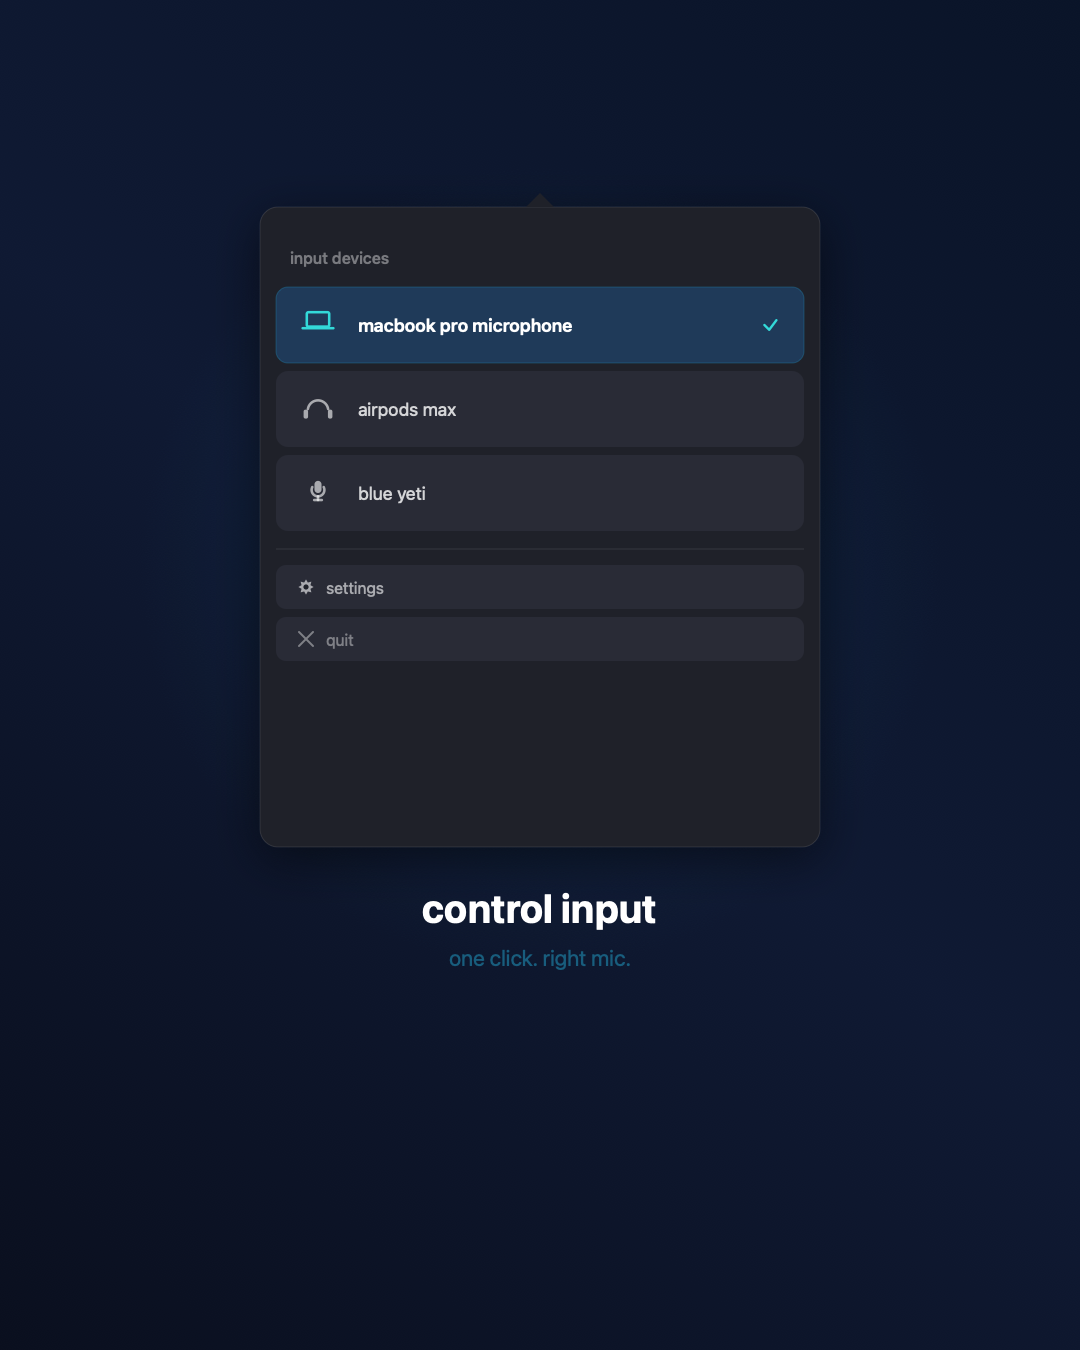
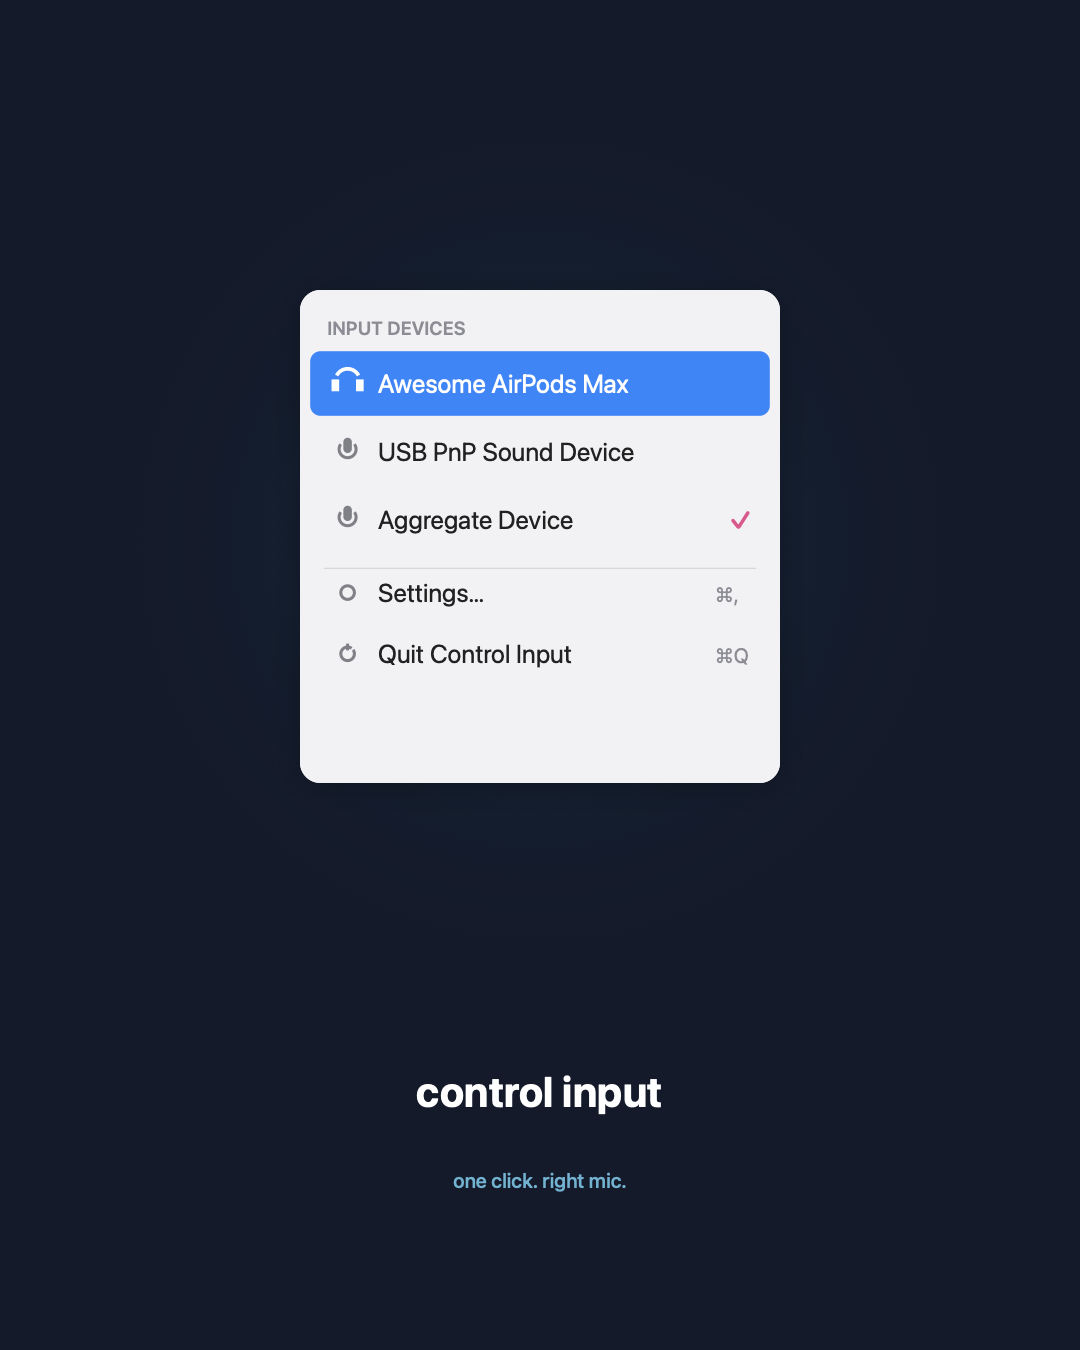
regenerate mockups to match actual app appearance
light frosted panel, blue hover highlight, pink checkmark, proper
device names from real screenshot. replaces the dark-themed mockups
that didn't represent the actual app.

diff --git a/marketing/GenerateAccurateMockups.swift b/marketing/GenerateAccurateMockups.swift
@@ -1,0 +1,324 @@
+#!/usr/bin/env swift
+// Generates marketing mockups that match the actual app appearance.
+// Uses light theme with frosted glass aesthetic matching real macOS vibrancy.
+
+import Cocoa
+import CoreText
+
+// MARK: - Helpers
+
+func createBitmap(width: Int, height: Int) -> (CGContext, NSBitmapImageRep)? {
+    guard let rep = NSBitmapImageRep(
+        bitmapDataPlanes: nil,
+        pixelsWide: width, pixelsHigh: height,
+        bitsPerSample: 8, samplesPerPixel: 4,
+        hasAlpha: true, isPlanar: false,
+        colorSpaceName: .deviceRGB,
+        bytesPerRow: 0, bitsPerPixel: 0
+    ) else { return nil }
+    rep.size = NSSize(width: width, height: height)
+    guard let gfx = NSGraphicsContext(bitmapImageRep: rep) else { return nil }
+    NSGraphicsContext.saveGraphicsState()
+    NSGraphicsContext.current = gfx
+    return (gfx.cgContext, rep)
+}
+
+func save(_ rep: NSBitmapImageRep, to path: String) {
+    NSGraphicsContext.restoreGraphicsState()
+    guard let png = rep.representation(using: .png, properties: [:]) else { return }
+    try! png.write(to: URL(fileURLWithPath: path))
+    print("Wrote \(path)")
+}
+
+func text(_ ctx: CGContext, _ str: String, x: CGFloat, y: CGFloat,
+          size: CGFloat, weight: NSFont.Weight, color: CGColor, centered: Bool = false) {
+    let font = NSFont.systemFont(ofSize: size, weight: weight)
+    let attrs: [NSAttributedString.Key: Any] = [
+        .font: font,
+        .foregroundColor: NSColor(cgColor: color) ?? .black,
+    ]
+    let as_ = NSAttributedString(string: str, attributes: attrs)
+    let line = CTLineCreateWithAttributedString(as_)
+    let bounds = CTLineGetBoundsWithOptions(line, .useOpticalBounds)
+    let dx = centered ? x - bounds.width / 2 : x
+    ctx.saveGState()
+    ctx.textPosition = CGPoint(x: dx, y: y)
+    CTLineDraw(line, ctx)
+    ctx.restoreGState()
+}
+
+func textWidth(_ str: String, size: CGFloat, weight: NSFont.Weight) -> CGFloat {
+    let font = NSFont.systemFont(ofSize: size, weight: weight)
+    let attrs: [NSAttributedString.Key: Any] = [.font: font]
+    let as_ = NSAttributedString(string: str, attributes: attrs)
+    let line = CTLineCreateWithAttributedString(as_)
+    return CTLineGetBoundsWithOptions(line, .useOpticalBounds).width
+}
+
+// MARK: - Colors (matching real app light theme)
+
+let darkBg = CGColor(srgbRed: 0.08, green: 0.10, blue: 0.16, alpha: 1.0)
+let panelBg = CGColor(srgbRed: 0.95, green: 0.95, blue: 0.96, alpha: 1.0)
+let hoverBg = CGColor(srgbRed: 0.25, green: 0.52, blue: 0.96, alpha: 1.0)
+let textPrimary = CGColor(srgbRed: 0.13, green: 0.13, blue: 0.13, alpha: 1.0)
+let textSecondary = CGColor(srgbRed: 0.55, green: 0.55, blue: 0.58, alpha: 1.0)
+let textOnBlue = CGColor(srgbRed: 1, green: 1, blue: 1, alpha: 1.0)
+let accentPink = CGColor(srgbRed: 0.85, green: 0.35, blue: 0.55, alpha: 1.0)
+let iconGray = CGColor(srgbRed: 0.50, green: 0.50, blue: 0.53, alpha: 1.0)
+let dividerColor = CGColor(srgbRed: 0.82, green: 0.82, blue: 0.84, alpha: 1.0)
+let subtleTeal = CGColor(srgbRed: 0.45, green: 0.70, blue: 0.82, alpha: 1.0)
+
+// MARK: - Popover mockup drawing
+
+func drawPopover(ctx: CGContext, x: CGFloat, y: CGFloat, w: CGFloat, scale: CGFloat) {
+    let panelH = 290 * scale
+    let cornerR = 12 * scale
+    let rowH = 40 * scale
+    let padX = 14 * scale
+    let padY = 12 * scale
+    let iconSize = 16 * scale
+    let fontSize = 15 * scale
+    let smallFont = 11 * scale
+
+    // Panel shadow
+    ctx.saveGState()
+    ctx.setShadow(offset: CGSize(width: 0, height: -3 * scale), blur: 20 * scale,
+                   color: CGColor(srgbRed: 0, green: 0, blue: 0, alpha: 0.25))
+    let panelRect = CGRect(x: x, y: y, width: w, height: panelH)
+    let panelPath = CGPath(roundedRect: panelRect, cornerWidth: cornerR, cornerHeight: cornerR, transform: nil)
+    ctx.setFillColor(panelBg)
+    ctx.addPath(panelPath)
+    ctx.fillPath()
+    ctx.restoreGState()
+
+    // Panel fill (again, on top of shadow)
+    ctx.saveGState()
+    ctx.addPath(panelPath)
+    ctx.clip()
+    ctx.setFillColor(panelBg)
+    ctx.fill(panelRect)
+
+    // --- Header ---
+    let headerY = y + panelH - padY - 14 * scale
+    text(ctx, "INPUT DEVICES", x: x + padX + 2 * scale, y: headerY,
+         size: smallFont, weight: .semibold, color: textSecondary)
+
+    // --- Device rows ---
+    let devices: [(icon: String, name: String, isHovered: Bool, isActive: Bool)] = [
+        ("headphones", "Awesome AirPods Max", true, false),
+        ("mic.fill", "USB PnP Sound Device", false, false),
+        ("mic", "Aggregate Device", false, true),
+    ]
+
+    var rowY = headerY - 8 * scale
+
+    for (_, device) in devices.enumerated() {
+        rowY -= rowH
+
+        let rowRect = CGRect(x: x + 6 * scale, y: rowY, width: w - 12 * scale, height: rowH - 2 * scale)
+        let rowPath = CGPath(roundedRect: rowRect, cornerWidth: 6 * scale, cornerHeight: 6 * scale, transform: nil)
+
+        if device.isHovered {
+            ctx.setFillColor(hoverBg)
+            ctx.addPath(rowPath)
+            ctx.fillPath()
+        }
+
+        let textColor = device.isHovered ? textOnBlue : textPrimary
+        let icnColor = device.isHovered ? textOnBlue : iconGray
+
+        // Icon (simple circle placeholder with SF Symbol name)
+        let icnX = x + padX + 6 * scale
+        let icnY = rowY + (rowH - 2 * scale) / 2
+
+        // Draw a simple icon representation
+        ctx.saveGState()
+        ctx.setFillColor(icnColor)
+        if device.icon == "headphones" {
+            // Headphones: two arcs + band
+            let hcx = icnX + iconSize / 2
+            let hcy = icnY
+            let r = iconSize * 0.45
+            ctx.setLineWidth(2.2 * scale)
+            ctx.setStrokeColor(icnColor)
+            ctx.addArc(center: CGPoint(x: hcx, y: hcy + r * 0.2), radius: r,
+                       startAngle: .pi * 0.15, endAngle: .pi * 0.85, clockwise: false)
+            ctx.strokePath()
+            // Ear cups
+            let cupW = 4.5 * scale
+            let cupH = 7 * scale
+            ctx.fill(CGRect(x: hcx - r - cupW / 2, y: hcy - cupH / 2 - r * 0.15, width: cupW, height: cupH))
+            ctx.fill(CGRect(x: hcx + r - cupW / 2, y: hcy - cupH / 2 - r * 0.15, width: cupW, height: cupH))
+        } else {
+            // Mic icon: simple capsule + stand
+            let mcx = icnX + iconSize / 2
+            let mcy = icnY
+            let bw = 5 * scale
+            let bh = 9 * scale
+            let capsule = CGRect(x: mcx - bw / 2, y: mcy - bh * 0.1, width: bw, height: bh)
+            ctx.addPath(CGPath(roundedRect: capsule, cornerWidth: bw / 2, cornerHeight: bw / 2, transform: nil))
+            ctx.fillPath()
+            ctx.setLineWidth(1.8 * scale)
+            ctx.setStrokeColor(icnColor)
+            let ar = 5 * scale
+            ctx.addArc(center: CGPoint(x: mcx, y: mcy + bh * 0.15),
+                       radius: ar, startAngle: .pi * 0.2, endAngle: .pi * 0.8, clockwise: true)
+            ctx.strokePath()
+            ctx.setLineWidth(1.5 * scale)
+            ctx.move(to: CGPoint(x: mcx, y: mcy + bh * 0.15 - ar))
+            ctx.addLine(to: CGPoint(x: mcx, y: mcy - bh * 0.45))
+            ctx.strokePath()
+        }
+        ctx.restoreGState()
+
+        // Device name
+        let nameX = icnX + iconSize + 10 * scale
+        let nameY = rowY + (rowH - 2 * scale) / 2 - fontSize * 0.35
+        text(ctx, device.name, x: nameX, y: nameY,
+             size: fontSize, weight: .regular, color: textColor)
+
+        // Checkmark for active device
+        if device.isActive {
+            let checkColor = device.isHovered ? textOnBlue : accentPink
+            let checkX = x + w - padX - 16 * scale
+            text(ctx, "\u{2713}", x: checkX, y: nameY,
+                 size: fontSize, weight: .semibold, color: checkColor)
+        }
+    }
+
+    // --- Divider ---
+    rowY -= 10 * scale
+    ctx.setFillColor(dividerColor)
+    ctx.fill(CGRect(x: x + padX, y: rowY, width: w - padX * 2, height: 1))
+
+    // --- Settings row ---
+    rowY -= rowH - 6 * scale
+    let settingsIconX = x + padX + 6 * scale
+    let settingsY = rowY + rowH / 2 - fontSize * 0.35
+    ctx.setFillColor(iconGray)
+    // Gear icon (simplified: circle with notches)
+    let gx = settingsIconX + iconSize / 2
+    let gy = rowY + rowH / 2
+    ctx.setStrokeColor(iconGray)
+    ctx.setLineWidth(1.8 * scale)
+    ctx.addArc(center: CGPoint(x: gx, y: gy), radius: 4 * scale,
+               startAngle: 0, endAngle: .pi * 2, clockwise: false)
+    ctx.strokePath()
+
+    text(ctx, "Settings\u{2026}", x: settingsIconX + iconSize + 10 * scale, y: settingsY,
+         size: fontSize, weight: .regular, color: textPrimary)
+    // Shortcut
+    text(ctx, "\u{2318},", x: x + w - padX - 24 * scale, y: settingsY,
+         size: smallFont + 1 * scale, weight: .regular, color: textSecondary)
+
+    // --- Quit row ---
+    rowY -= rowH - 4 * scale
+    let quitY = rowY + rowH / 2 - fontSize * 0.35
+    // Power icon (circle with line)
+    let qx = settingsIconX + iconSize / 2
+    let qy = rowY + rowH / 2
+    ctx.setStrokeColor(iconGray)
+    ctx.setLineWidth(1.8 * scale)
+    ctx.addArc(center: CGPoint(x: qx, y: qy), radius: 4 * scale,
+               startAngle: .pi * 0.3, endAngle: .pi * 2.2, clockwise: false)
+    ctx.strokePath()
+    ctx.move(to: CGPoint(x: qx, y: qy + 2 * scale))
+    ctx.addLine(to: CGPoint(x: qx, y: qy + 6 * scale))
+    ctx.strokePath()
+
+    text(ctx, "Quit Control Input", x: settingsIconX + iconSize + 10 * scale, y: quitY,
+         size: fontSize, weight: .regular, color: textPrimary)
+    text(ctx, "\u{2318}Q", x: x + w - padX - 24 * scale, y: quitY,
+         size: smallFont + 1 * scale, weight: .regular, color: textSecondary)
+
+    ctx.restoreGState()
+}
+
+// MARK: - Generate social-ready popover mockup (1080x1350)
+
+func generatePopover() {
+    let w = 1080, h = 1350
+    guard let (ctx, rep) = createBitmap(width: w, height: h) else { return }
+    let W = CGFloat(w), H = CGFloat(h)
+
+    // Dark outer background
+    ctx.setFillColor(darkBg)
+    ctx.fill(CGRect(x: 0, y: 0, width: W, height: H))
+
+    // Subtle radial glow
+    let glow = CGGradient(colorsSpace: CGColorSpaceCreateDeviceRGB(),
+        colors: [CGColor(srgbRed: 0.10, green: 0.40, blue: 0.55, alpha: 0.15),
+                 CGColor(srgbRed: 0.10, green: 0.40, blue: 0.55, alpha: 0.0)] as CFArray,
+        locations: [0.0, 1.0])!
+    ctx.drawRadialGradient(glow, startCenter: CGPoint(x: W/2, y: H * 0.6),
+        startRadius: 0, endCenter: CGPoint(x: W/2, y: H * 0.6),
+        endRadius: 400, options: [])
+
+    // Draw the popover panel
+    let panelW: CGFloat = 480
+    let panelX = (W - panelW) / 2
+    let panelY = H * 0.42
+    drawPopover(ctx: ctx, x: panelX, y: panelY, w: panelW, scale: 1.7)
+
+    // Branding below
+    text(ctx, "control input", x: W / 2, y: H * 0.18,
+         size: 42, weight: .bold, color: CGColor(srgbRed: 1, green: 1, blue: 1, alpha: 1), centered: true)
+    text(ctx, "one click. right mic.", x: W / 2, y: H * 0.12,
+         size: 20, weight: .medium, color: subtleTeal, centered: true)
+
+    save(rep, to: "marketing/ui-popover.png")
+}
+
+// MARK: - Generate social-ready stories hero (1080x1920)
+
+func generateStories() {
+    let w = 1080, h = 1920
+    guard let (ctx, rep) = createBitmap(width: w, height: h) else { return }
+    let W = CGFloat(w), H = CGFloat(h)
+
+    // Dark background
+    ctx.setFillColor(darkBg)
+    ctx.fill(CGRect(x: 0, y: 0, width: W, height: H))
+
+    // Glow
+    let glow = CGGradient(colorsSpace: CGColorSpaceCreateDeviceRGB(),
+        colors: [CGColor(srgbRed: 0.08, green: 0.45, blue: 0.60, alpha: 0.20),
+                 CGColor(srgbRed: 0.08, green: 0.45, blue: 0.60, alpha: 0.0)] as CFArray,
+        locations: [0.0, 1.0])!
+    ctx.drawRadialGradient(glow, startCenter: CGPoint(x: W/2, y: H * 0.72),
+        startRadius: 0, endCenter: CGPoint(x: W/2, y: H * 0.72),
+        endRadius: 350, options: [])
+
+    // Draw a smaller popover showing the real UI
+    let panelW: CGFloat = 440
+    let panelX = (W - panelW) / 2
+    drawPopover(ctx: ctx, x: panelX, y: H * 0.48, w: panelW, scale: 1.6)
+
+    // Title and tagline above
+    text(ctx, "control input", x: W / 2, y: H * 0.88,
+         size: 48, weight: .bold, color: CGColor(srgbRed: 1, green: 1, blue: 1, alpha: 1), centered: true)
+    text(ctx, "take back your microphone.", x: W / 2, y: H * 0.84,
+         size: 22, weight: .medium, color: subtleTeal, centered: true)
+
+    // Feature bullets below the popover
+    let bulletY: [CGFloat] = [H * 0.22, H * 0.18, H * 0.14]
+    let bullets = ["one-click switching", "auto-switch to preferred mic", "lives in your menu bar"]
+    let dotColor = CGColor(srgbRed: 0.20, green: 0.65, blue: 0.75, alpha: 1)
+    let bulletTextColor = CGColor(srgbRed: 0.80, green: 0.83, blue: 0.88, alpha: 1)
+
+    for (i, b) in bullets.enumerated() {
+        // Dot
+        ctx.setFillColor(dotColor)
+        ctx.fillEllipse(in: CGRect(x: W * 0.25, y: bulletY[i] - 3, width: 8, height: 8))
+        text(ctx, b, x: W * 0.25 + 20, y: bulletY[i] - 6,
+             size: 19, weight: .regular, color: bulletTextColor)
+    }
+
+    save(rep, to: "marketing/ui-hero-mobile.png")
+}
+
+// MARK: - Run
+
+generatePopover()
+generateStories()
+print("Done.")
